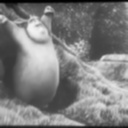
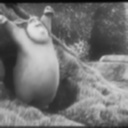
contours new image

diff --git a/preprocessing.py b/preprocessing.py
@@ -5,7 +5,7 @@ from cv2 import cvtColor, adaptiveThreshold, dilate, findContours, arcLength \
      INTER_LINEAR, GaussianBlur, COLOR_BGR2GRAY, COLOR_GRAY2BGR, ADAPTIVE_THRESH_GAUSSIAN_C, \
      THRESH_BINARY_INV, RETR_LIST, CHAIN_APPROX_SIMPLE, imwrite, Canny, INTER_NEAREST, \
      setUseOptimized, threshold, THRESH_BINARY, THRESH_OTSU, VideoWriter, ADAPTIVE_THRESH_MEAN_C, \
-     CV_64F, erode, drawContours
+     CV_64F, erode, drawContours, circle, polylines
      
 from numpy import array, ones, uint8, zeros, argmin, argmax, delete, floor, median, ndarray
 import gc
@@ -31,7 +31,7 @@ def set_initials_pre(L_f, image_f, counter_warped_f, out2_f):
     global L, image, counter_warped, out2
     L = L_f
     image = image_f
-    imwrite("original_block.jpg", image)
+    #imwrite("original_block.jpg", image)
     counter_warped = counter_warped_f
     #out = out_f
     out2 = out2_f
@@ -127,9 +127,15 @@ def get_contour(G):
     if first == False:
         return -1
     else:
-        #image_copy = image.copy()
-        #drawContours(image_copy, approx, -1, (0, 255, 0), 3)
-        #imwrite("contours.jpg", image_copy)
+        image_copy = image.copy()
+        #print approx[0][0]
+        circle(image_copy, tuple(approx[0][0]), 10, (0, 0, 255), -1)
+        circle(image_copy, tuple(approx[1][0]), 10, (0, 0, 255), -1)
+        circle(image_copy, tuple(approx[2][0]), 10, (0, 0, 255), -1)
+        circle(image_copy, tuple(approx[3][0]), 10, (0, 0, 255), -1)
+        polylines(image_copy, [approx], True, (0, 255, 255))
+        drawContours(image_copy, approx, -1, (0, 255, 0), 3)
+        imwrite("contours.jpg", image_copy)
         return approx
 
 #@profile
